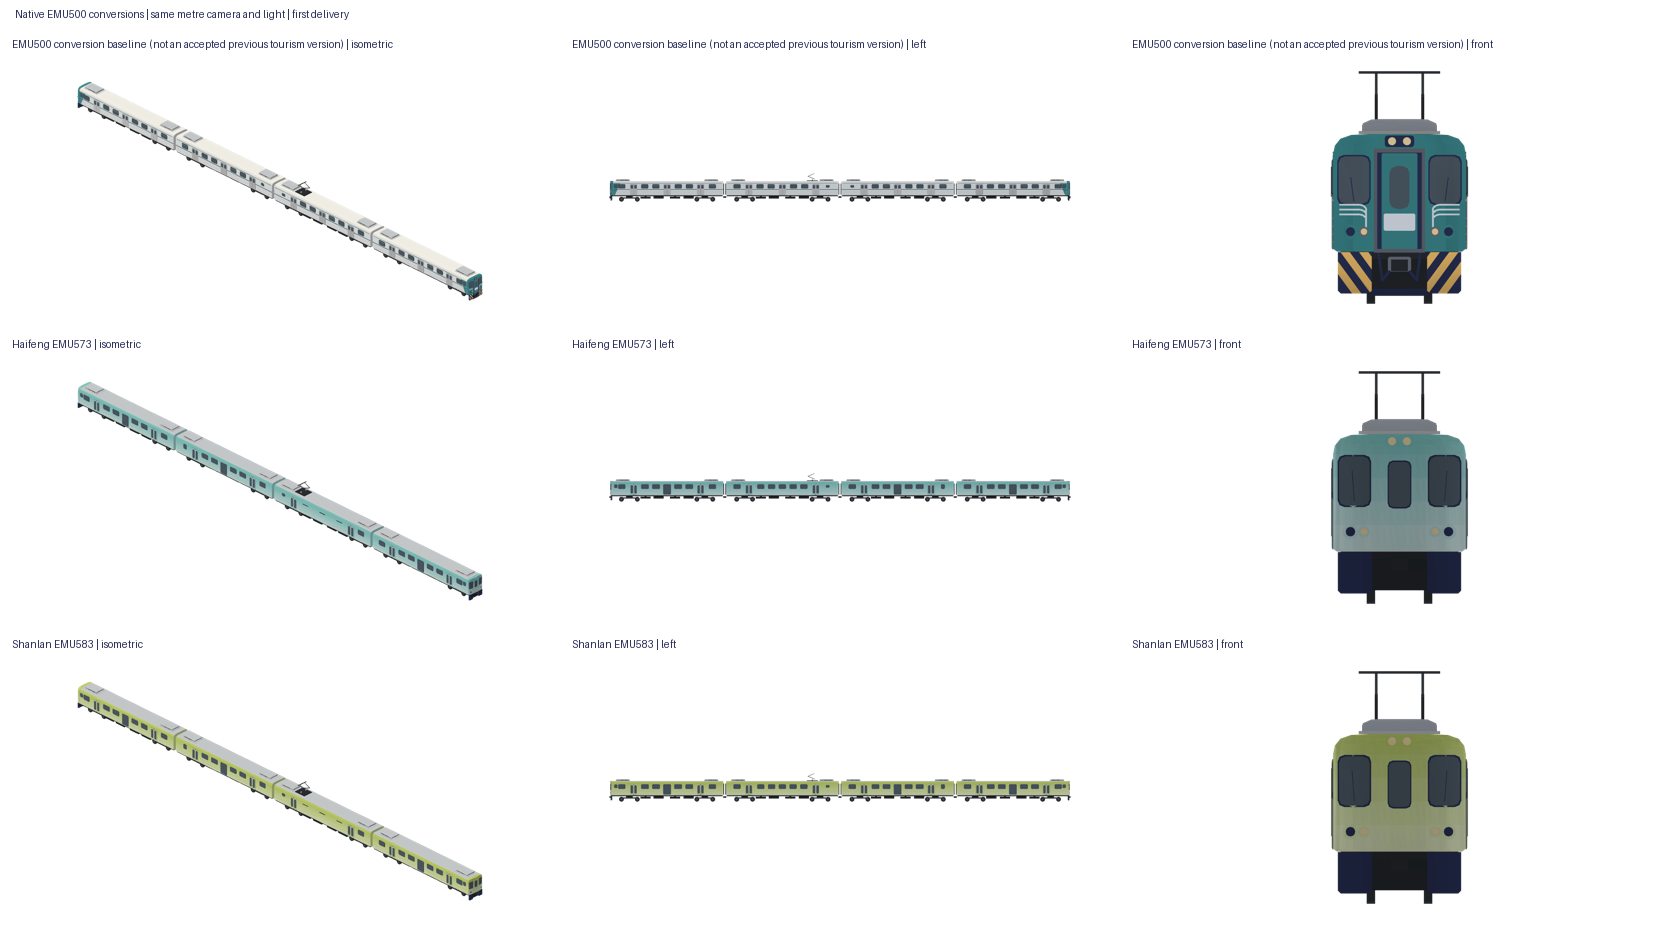
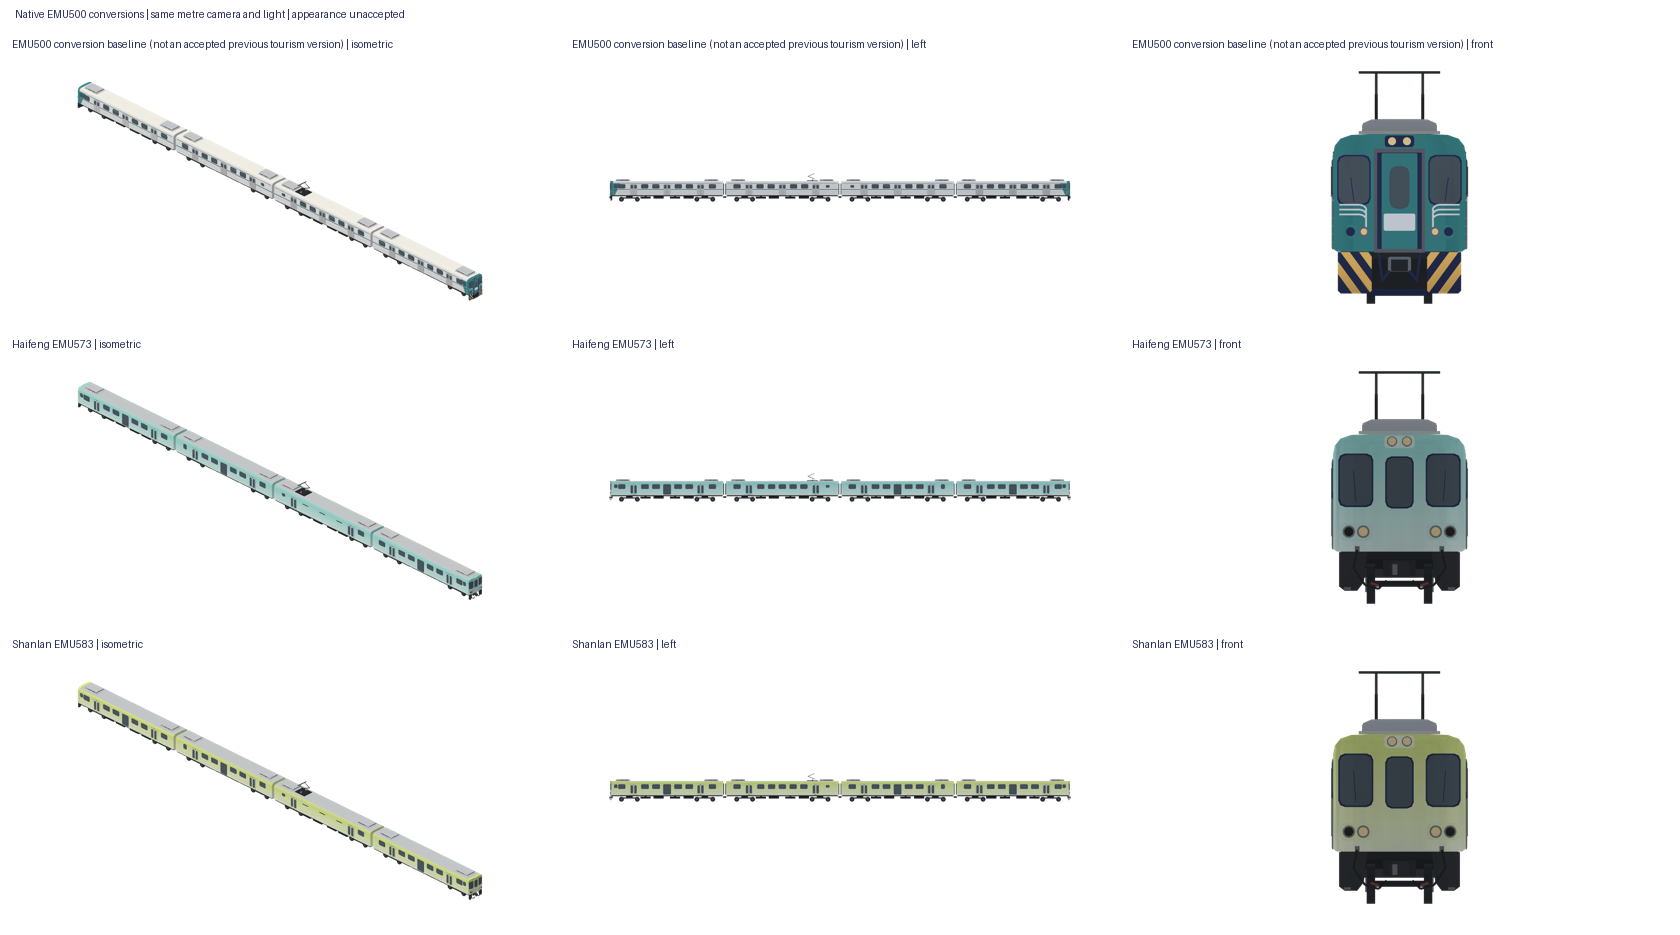
Record revision 2 rebuild, protection and appearance review
Agent: Codex

diff --git a/docs/art/tourism-emu500/README.md b/docs/art/tourism-emu500/README.md
@@ -1,17 +1,23 @@
 # 臺鐵海風號／山嵐號 EMU500 改造 studies
 
-兩款首次交付，各自沒有已接受前版。
+目前為第二輪修整。兩款各自仍沒有已接受前版；上一輪交付 producer `f036e7f79279586f5831c7cb9bf9d8cce3444558` 只是未接受的前稿。
 
-真正producer：`f036e7f79279586f5831c7cb9bf9d8cce3444558`。素材draft [#35](https://github.com/a91453/railway-assets-private/pull/35)。
+真正producer：`0e2f38a244db7ea0301169cdb4b6d81f0c340a78`。素材draft [#35](https://github.com/a91453/railway-assets-private/pull/35)。
 
-- [海風完整素材](https://github.com/a91453/railway-assets-private/tree/codex/haifeng-shanlan-emu500/game-art-previews/docs/art/haifeng-emu500/revision-1)／[viewer](https://github.com/a91453/railway-assets-private/blob/codex/haifeng-shanlan-emu500/game-art-previews/docs/art/haifeng-emu500/revision-1/index.html)
-- [山嵐完整素材](https://github.com/a91453/railway-assets-private/tree/codex/haifeng-shanlan-emu500/game-art-previews/docs/art/shanlan-emu500/revision-1)／[viewer](https://github.com/a91453/railway-assets-private/blob/codex/haifeng-shanlan-emu500/game-art-previews/docs/art/shanlan-emu500/revision-1/index.html)
+- [海風完整素材](https://github.com/a91453/railway-assets-private/tree/codex/haifeng-shanlan-emu500/game-art-previews/docs/art/haifeng-emu500/revision-2)／[viewer](https://github.com/a91453/railway-assets-private/blob/codex/haifeng-shanlan-emu500/game-art-previews/docs/art/haifeng-emu500/revision-2/index.html)
+- [山嵐完整素材](https://github.com/a91453/railway-assets-private/tree/codex/haifeng-shanlan-emu500/game-art-previews/docs/art/shanlan-emu500/revision-2)／[viewer](https://github.com/a91453/railway-assets-private/blob/codex/haifeng-shanlan-emu500/game-art-previews/docs/art/shanlan-emu500/revision-2/index.html)
 
 下載自含HTML後開啟；本機HTTP實測通過，file://受環境政策阻擋、UNVERIFIED。
 
 ![原EMU500改造基準、海風、山嵐共同公尺比較](overview.png)
 
 一般EMU500只標「改造基準」，也沒有取得其第八版或營運遠景的明確producer使用者外觀接受證據，故 **UNVERIFIED**。合併本輪只增加studies，兩款均不出現在遊戲，無玩家選用；靜態四車不代表動態行駛。完整來源逐圖網址／SHA／權利見 [sources.json](sources.json)，重建見 [工具](../../../tools/tourism-emu500/README.md)。公開僅此共同總覽，完整兩套近遠單元／四車、GLB／viewer在互鏈素材draft PR。
+
+## 第二輪外觀修整
+
+撤回上一輪對車頭外觀過寬的自評。本輪收薄深色下裙、移除中央實心大封板與舊前連結器重疊，重建可辨識的連結器頭、支座及主要管線；補出上雙燈盒與下成對圓燈座，放寬中央窗並讓窗框／玻璃的三角面貼合最終弧面。修整中間稿下窗角曾被殼面穿出，已用實際原生射線重現並加入可拒收的驗收，沒有把中間稿當交付。
+
+海風與山嵐分別調亮藍綠／黃綠，真車殼頂點色連續內插，去除原先逐面分段楔形；兩款幾何仍共用已知相同部分，沒有捏造不同車鼻。四角色、四車順序、輪組、空調及集電位置保持。細管線、連結器機構與隱藏設備仍是外觀簡化，非工程復刻。真正前稿與本輪採同公尺相機／光線比較；原EMU500只是改造基準。
 
 ## 身份與版本
 
@@ -27,7 +33,7 @@
 | 試運轉紀錄 | 2024-08-06、09-24、11-08實車照片 | 2024-08-30、09-24實車照片 |
 | 正式營運 | 2024-12-07（交通部施政報告） | 2025-04-19（交通部／公視） |
 | 逐列交付／驗收日 | 資料不足，不能用試車照替代交付證書 | 資料不足 |
-| 選定塗裝 | 現行官網海水藍綠上深下淺、半圓頭部漸層，非活動彩繪 | 現行官網黃綠上深下淺、半圓頭部漸層，非活動彩繪 |
+| 選定塗裝 | 現行官網海水藍綠上深下淺、車頭漸層，非活動彩繪 | 現行官網黃綠上深下淺、車頭漸層，非活動彩繪 |
 
 2024試車照片只支持可見外形；一般營運版本另用臺鐵現行頁、2025設計刊物及營運消息核對。附圖的外觀設計示意不是工程圖；未把它當左右側全部設備的證明。沒有第三方幾何／照片貼圖、品牌字或商標，來源原圖不公開、不送外部生成服務。
 
@@ -44,7 +50,7 @@
 | 集電 | EP單臂弓，展示4.95m | 實照可見EP集電與高壓設備 | 沿用生成段；4.95m只展示升弓，未稱官方降弓高度 |
 | 台車／輪組 | 兩台車八輪胎、860mm、2.8m軸距 | 保留EMU500走行大結構，照片可見 | 沿用生成段及位置，未取得兩列動拖台車所有零件BOM，不稱完全相同 |
 | 車底 | 原角色設備箱簡化 | 主要設備保留、餐車改造可能有設備增設 | 原角色箱體為合理簡化；精密車底差異／管路資料不足 |
-| 塗裝 | 遊戲暖白／綠松、白折線與黃裙紋 | 海風藍綠、山嵐黃綠霧面漸層，無原折線／黃裙紋 | 漸層切在真殼面，非浮動色片；色帶跨角色同高連續 |
+| 塗裝 | 遊戲暖白／綠松、白折線與黃裙紋 | 海風藍綠、山嵐黃綠霧面漸層，無原折線／黃裙紋 | 漸層在真殼面頂點內插，非浮動色片；跨角色同高連續 |
 | 窗內 | 一般配方實心外殼支承玻璃 | 兩款不同座席／色彩配置 | 窗內深色簡化，未做餐飲系統或完整內裝互動 |
 
 兩款確定差異是實體原車、漸層色相及官方座席配置。尚無證據顯示外部殼形必須不同，因此本輪兩款幾何相同、身份／塗裝／配置紀錄獨立，沒有捏造特殊鼻形；這不表示實車每個零件相同。內裝差異只記來源，不把未製作的座席宣稱已交付。
@@ -82,6 +88,6 @@ EMU500 2M2T角色定義來自型式資料；本輪沒有改造牽引電路證書
 原車年份及台車資料需分層閱讀：Blair兩個原車籍頁均列1995，而EMU500全系列資料為1995–1997；本輪沒有原廠逐車出廠證書，不將泛型年份當個車精確製造日期。Blair連結稱TR-55，型式資料另列ABB動拖台車代號；未取得兩列改造BOM核對，因此模型只代表可見的兩軸台車外形，沒有聲稱代號／所有零件已查明一致。
 
 
-最終實跑：44模型／GLB／組裝檔、40私庫PNG＋公共總覽與兩個最終交付viewer，獨立producer checkout重建bytes相同；最終16個Swift相關測試0失敗（先前71項、3既有skip、0失敗）。共用Node5、Python6；20GLB獨立Blender4.3.2匯入；獨立Swift組裝誤差≤3.82e-6m。每款近景20684、遠景7696三角，完整列車合法分件；全部單元≤15000。最終交付viewer每款10項×七向×日夜、旋轉縮放／390px、原生與GLB真下載bytes／SHA均過。素材staged tree與HEAD guard通過：150新增檔、45.1MB。完整證據：[verification.json](verification.json)。
+第二輪最終實跑：44模型／GLB／組裝檔、40私庫PNG＋公共總覽與兩個最終交付viewer，獨立producer checkout重建bytes相同；本輪14個Swift相關測試0失敗（首輪71項、3既有skip、0失敗，為前稿歷史記錄）。共用Node5、Python6；20GLB獨立Blender4.3.2匯入；獨立Swift組裝誤差≤3.82e-6m。每款近景22220、遠景9120三角，完整列車合法分件；全部單元≤15000。最終交付viewer每款10項×七向×日夜、旋轉縮放／390px、原生與GLB真下載bytes／SHA均過。素材最新輪次為revision-2；同PR移除revision-1重檔，保留PNG／README／來源。staged tree與HEAD guard結果見verification.json。完整證據：[verification.json](verification.json)。
 
-開工main a1e33214與工作期間上游main46ae42b9均實際匯出777既有模型；和producer分支的payload bytes／全部頂點欄位FNV一致。上游#1536／#1537為UI和實景路線效能，未混成本輪變更。三者同33舊全量失敗（32舊鎖差異＋TEMU2000整列預算）留存，未改gate。standard613模型／3565788頂點／142.6MB不增加，啟用記憶體檢查通過。原EMU500 API／配方原檔完全不改；保護營運選用／列車包及回退。
+首輪對照開工main a1e33214與上游46ae42b9，本輪另對照main d6c5c899，均實際匯出777既有模型；和本輪producer分支的payload bytes／全部頂點欄位FNV一致。上游UI／效能變更與本輪分開判讀。各自同33舊全量失敗（32舊鎖差異＋TEMU2000整列預算）留存，未改gate。standard613模型／3565788頂點／142.6MB不增加，啟用記憶體檢查通過。原EMU500 API／配方原檔完全不改；保護營運選用／列車包及回退。

diff --git a/docs/HANDOFF.md b/docs/HANDOFF.md
@@ -2755,3 +2755,5 @@ Linux 靜態技術驗證不代表 iOS Metal／真機／動態關節。未推 mai
 收尾producer `0d3b6733f6c76a607c034097f95956f4b38ab958`：兩款素材技術VERIFIED，獨立producer模型／PNG／viewer bytes相同、最終HTTP viewer真下載／旋轉縮放已驗；file://被瀏覽器管理政策擋住，離線直開仍UNVERIFIED。最新未改main的757個原生payload與全頂點欄位雜湊保持。14 Swift6.4 WAE測試、獨立Blender／原生組裝／故障反例通過；全量33項既有失敗已在main重現，未改gate。兩款各20PNG＋公開共用1張，外觀接受／營運／裝置各UNVERIFIED，詳自有verification.json。
 
 > Codex 海風／山嵐 EMU500 雙款改造（producer `f036e7f7`，素材draft [#35](https://github.com/a91453/railway-assets-private/pull/35)）：[查證、逐部件差異、角色、來源與驗證](art/tourism-emu500/README.md)。從既有原生EMU500截面／弧頭與走行設備生成段改造，兩端封門、中央落地窗與兩款一般漸層獨立處理；原EMU500及其他營運模型／配車／列車包／回退保持。兩款僅studies，沒有玩家選用或動態行駛驗證；使用者明確producer外觀接受、營運與裝置UNVERIFIED。完整交付、producer、雙draft PR與最新head CI見自有文件；不推main／合併／auto-merge／TestFlight。
+
+> Codex 海風／山嵐第二輪（producer `0e2f38a244db7ea0301169cdb4b6d81f0c340a78`，公開draft #1539 ↔ 素材draft #35）：依使用者「修」收薄下裙、重建連結器凹區／主管線、上下燈座、中央窗及連續漸層；窗框與玻璃沿原EMU500最終弧頭三角面切分，射線／故障反例驗收。前稿f036e7f7未經接受，撤回過寬外觀自評；素材兩款最新revision-2，上一輪只留PNG／README／來源，重檔同PR移除。本輪Swift6.4 WAE與14項測試、777既有payload／全部頂點欄位保持（main d6c5c899），同33舊全量失敗不改gate。仍studies，不接營運／配車／列車包／回退；兩款外觀接受、營運及裝置UNVERIFIED。獨立producer重建／最終viewer、素材guard與最新head CI以[本型驗證](art/tourism-emu500/verification.json)及兩draft記錄為準。不推main／merge／auto-merge／TestFlight。
